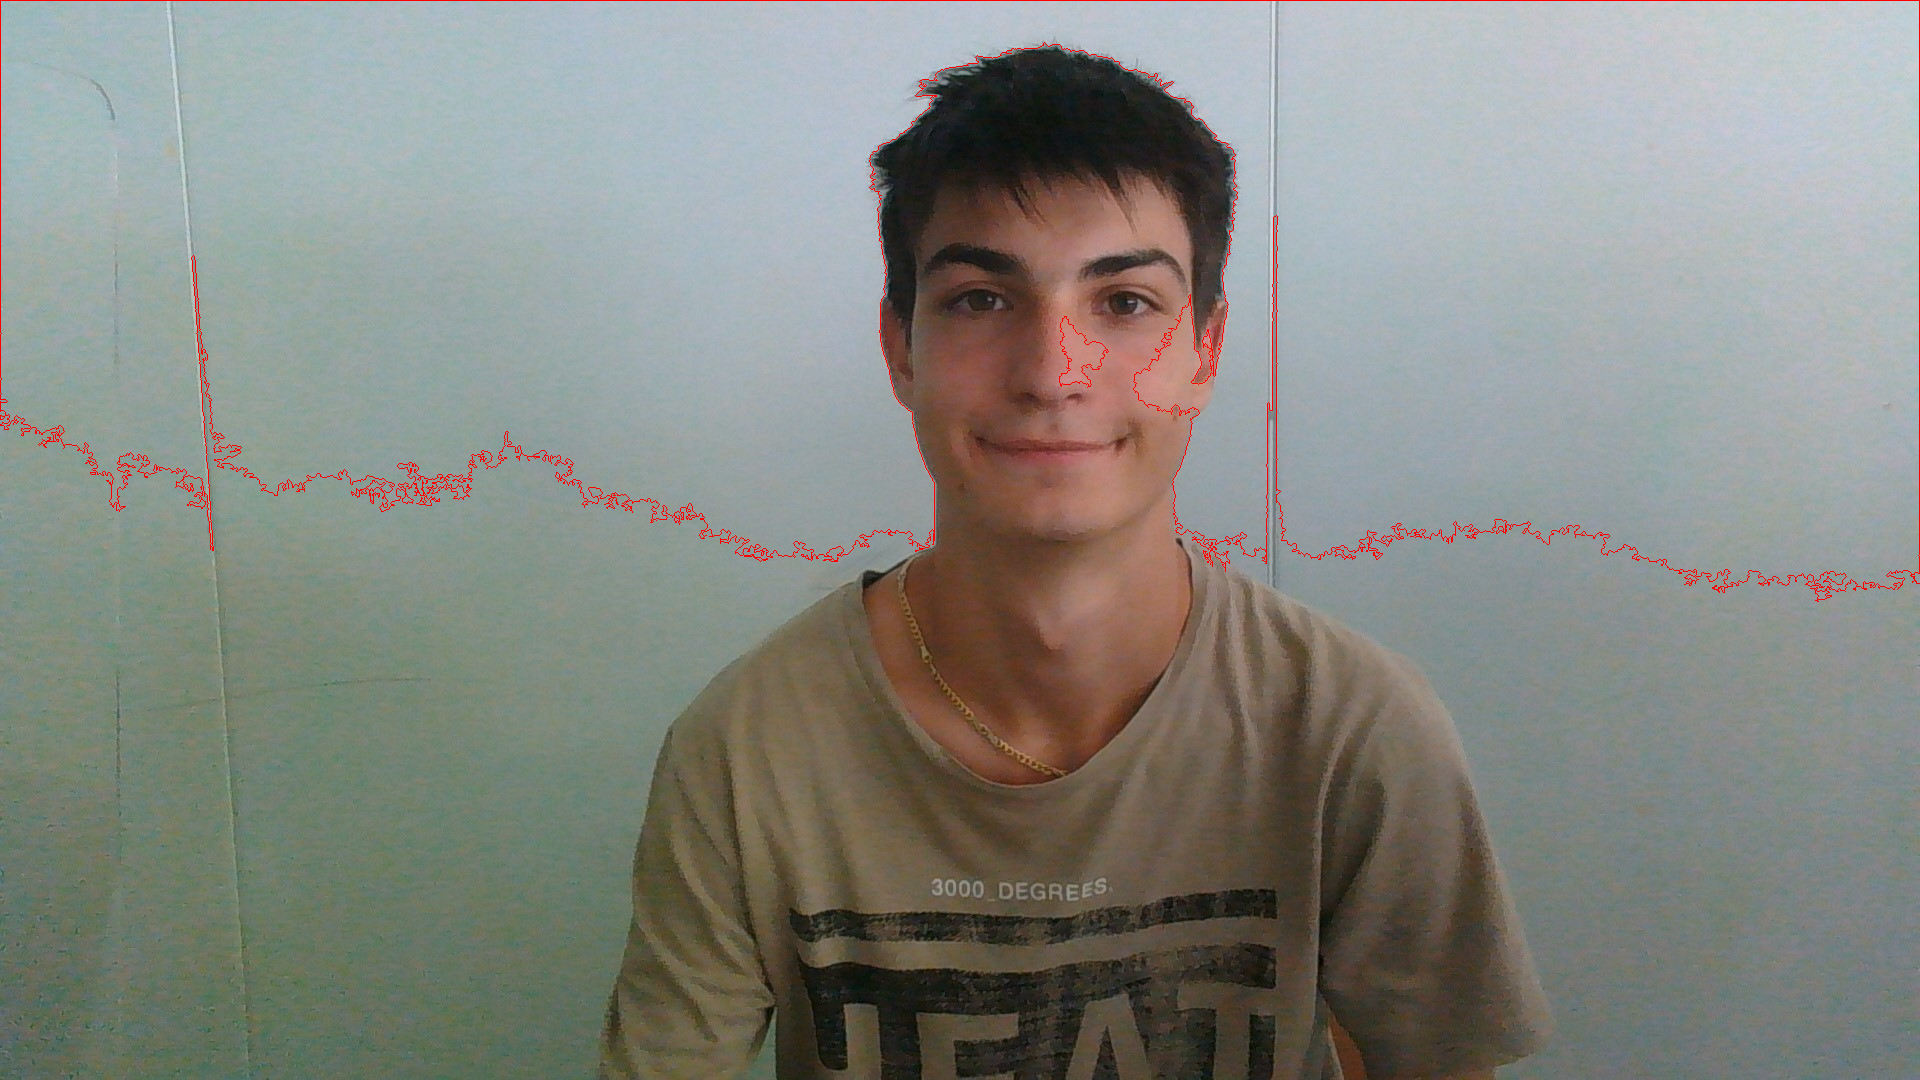
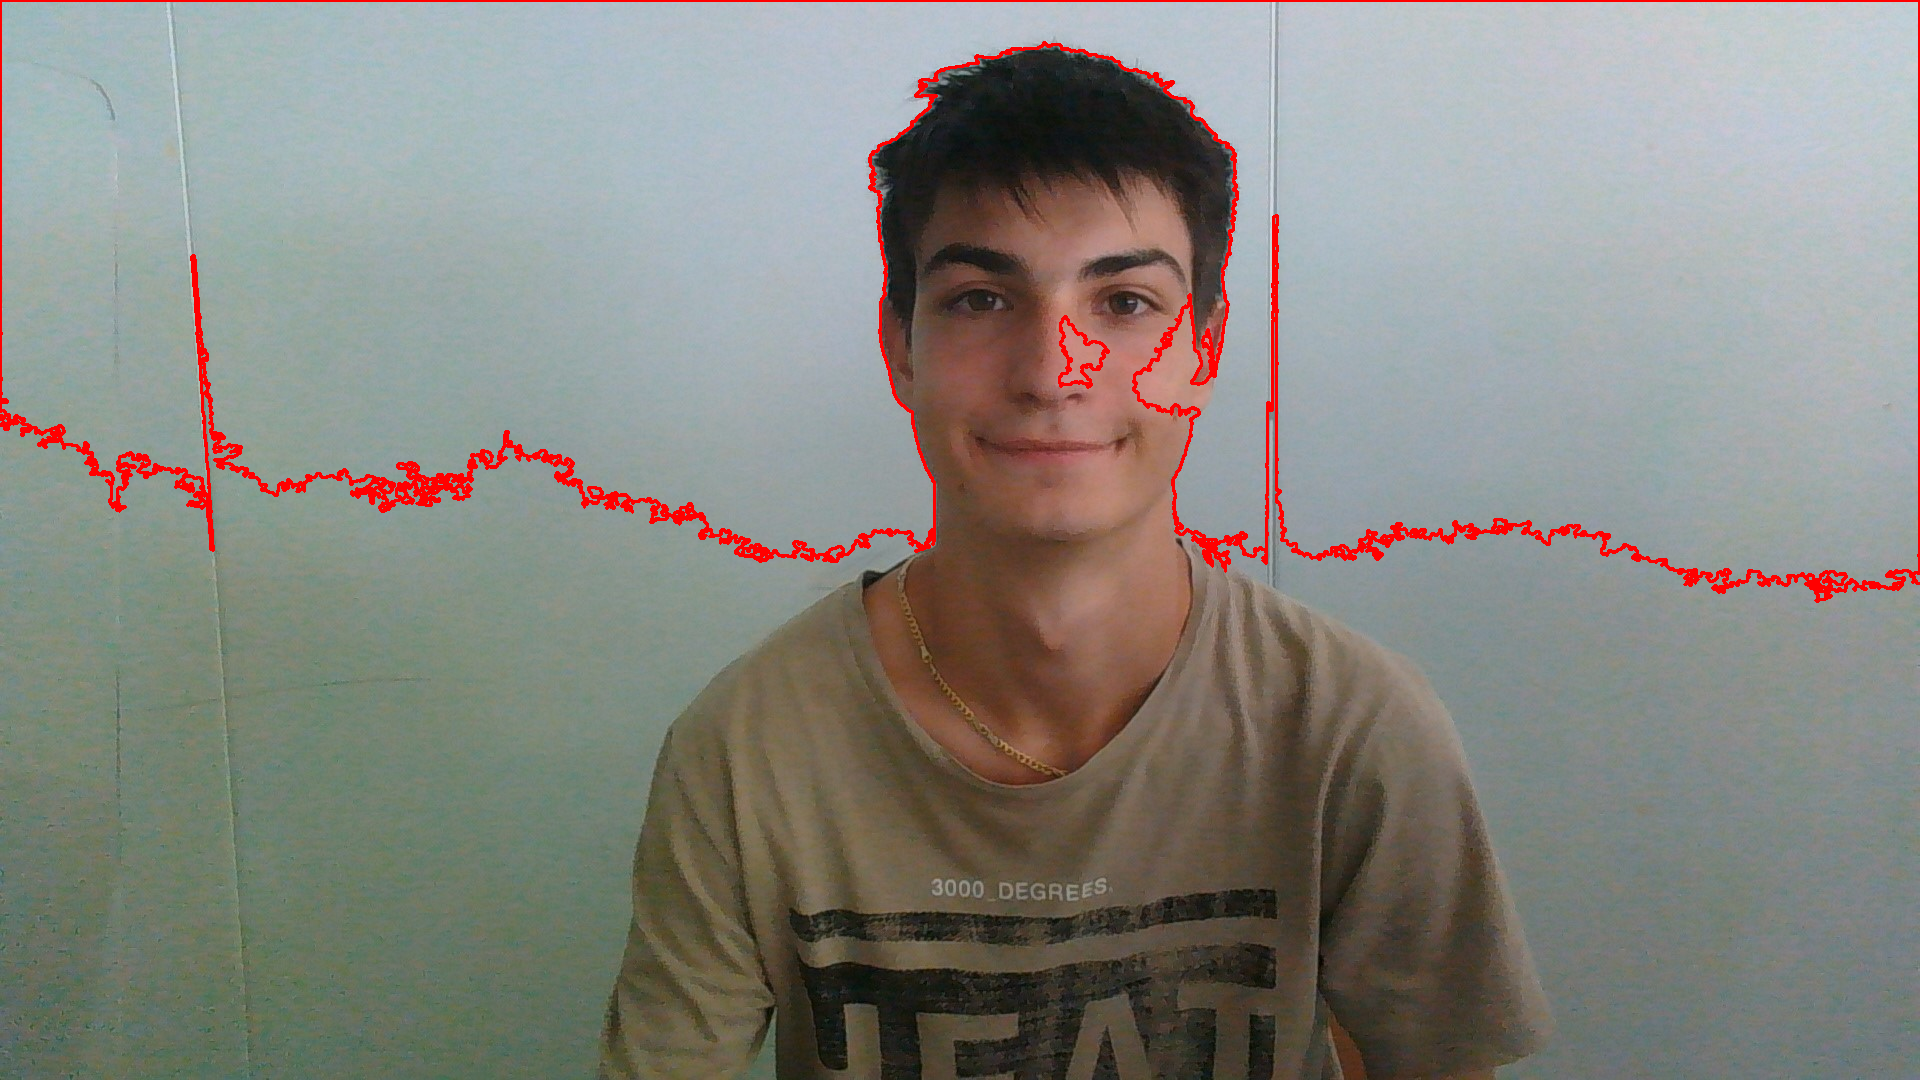
Screeen Image Correct

diff --git a/5_Applicativo/main.py b/5_Applicativo/main.py
@@ -2,6 +2,7 @@ import kivy
 import logging
 import os
 import cv2
+import gc
 import urllib.request
 import validators
 from bs4 import BeautifulSoup
@@ -10,6 +11,7 @@ from kivy.properties import StringProperty
 from kivy.core.window import Window
 from pathlib import Path
 from kivy.config import Config
+from kivy.logger import Logger
 from kivy.app import App
 from kivy.uix.boxlayout import BoxLayout
 from kivy.uix.screenmanager import Screen
@@ -22,6 +24,7 @@ from kivy.core.text import _default_font_paths
 from kivy.core.text import LabelBase
 from urllib.request import urlopen
 from collections import OrderedDict
+from cachetools import TTLCache
 
 Config.read('./config.ini')
 
@@ -71,7 +74,7 @@ class WordCloudGUI(BoxLayout, Screen):
 
 
 class WordCloudApp(App):
-    path = "./pictures/class.png"
+    path = "./pictures/default.png"
     sm = ScreenManager()
 
     words = ""
@@ -102,11 +105,18 @@ class WordCloudApp(App):
     def getPathFromTextInput(self):
         # Prende la path per l'immagine dal text input
         self.path = self.root.get_screen('gui').ids.path.text
+        self.path = self.path.strip()
+        self.path = self.path.replace('"','')
 
+        #self.root.get_screen('gui').ids.path.text = self.path
+        
+        
     def visualizer(self):
         # Memorizza la nuova path
         self.getPathFromTextInput()
-        if(os.path.exists(self.path)):
+        if(not (os.path.exists(self.path) and os.path.isfile(self.path))):
+            self.root.get_screen('gui').ids.image.source = "./pictures/default.png"
+        else:
             # Se la path esiste la usa per l'immagine
             self.root.get_screen('gui').ids.image.source = self.path
 
@@ -123,8 +133,14 @@ class WordCloudApp(App):
     def changeToImageModifier(self):
         # Cambia scena impostanto quella dove si può scegliere cosa mantenere
         # dell'immagine e cosa no
-        self.sm.current = "image"
-        ImageModifier.build(self.path, self)
+        
+        #change current screen to "image"
+        self.sm.current = "image"   
+        tolerance = self.root.get_screen('image').ids.tolerance_slider.value
+        print(f'Tollerance: {tolerance}')
+
+        #get current screen (read only) as Object (not name) and since it is an intance of ImageModifier it contains the updateImage method
+        self.sm.current_screen.updateImage(self.path, self, tolerance)
 
     def getInputType(self):
         # Ritorna il tipo di input selezionato
@@ -218,10 +234,25 @@ class WordCloudApp(App):
 class DownloadScreen(Screen):
     pass
 
-class ImageModifier(Screen):
-    def build(path, wcApp):
+class ImageModifier(Screen, BoxLayout):
+    
+    def updateImage(self, path, wcApp, tollerance):
+        self.wcApp = wcApp
+        self.setPath(path)
+        self.createBorderImage(tollerance)
+
+    def setPath(self, path):
+        # TODO !!!ATTENZIONE CONTROLLARE SE IL FILE È UN IMMAGINE
+        if(not (os.path.exists(path) or os.path.isfile(path))):
+            self.imagepath = "./pictures/default.png"  
+        else:
+            self.imagepath = path      
+
+    def createBorderImage(self, tollerance):
+        #Logger.info(f'createBorderImage with: {tollerance} on image {self.imagepath}')
+
         # Legge l'immagine corrispondente alla path
-        img = cv2.imread(path)
+        img = cv2.imread(self.imagepath)
 
         # Converte l'immagine ad una scala di grigi
         gray = cv2.cvtColor(img, cv2.COLOR_BGR2GRAY)
@@ -238,22 +269,29 @@ class ImageModifier(Screen):
             perimeter = cv2.arcLength(cnt, True)
             perimeter = round(perimeter, 4)
 
+            #areaTolerance = self.root.get_screen('image').ids.border_slider.value
+            #print(areaTolerance)
             # Se l'area è maggiore ad un determinato numero la disegna sull'immagine
-            if(area > 1000):
+            if(area > tollerance):
                 #print('Area:', area)
                 #print('Perimeter:', perimeter)
-                cv2.drawContours(img, [cnt], -1, (0,0,255), 1)
+                cv2.drawContours(img, [cnt], -1, (0,0,255), 2)
                 #x1, y1 = cnt[0,0]
 
         # Crea una nuova immagine che conterrà i bordi
-        pathTempImage = path + '.png'
+        #cache = TTLCache(maxsize=10, ttl=5)
+        #cache['pathTempImage'] = path + '.png'
+        pathTempImage = './pictures/imageMod.png'
         cv2.imwrite(pathTempImage, img)
-        wcApp.root.get_screen('image').ids.imageMod.source = pathTempImage
         
-        #cv2.imshow("Image", img)    
-        #cv2.waitKey(0)
-        #cv2.destroyAllWindows()
-        pass
+        #wcApp.root.get_screen('image').ids.imageMod.source = "./pictures/default.png"
+        #wcApp.root.get_screen('image').ids.imageMod.source = pathTempImage
+
+        self.ids.imageMod.source = pathTempImage
+        Logger.info(f'imageMod: {self.ids.imageMod.source}')
+        #wcApp.root.get_screen('image').ids.imageMod.reload()
+        self.ids.imageMod.reload()
+        #cache['pathTempImage'] = TTLCache.clear
 
 if __name__ == '__main__':
     WordCloudApp().run()
